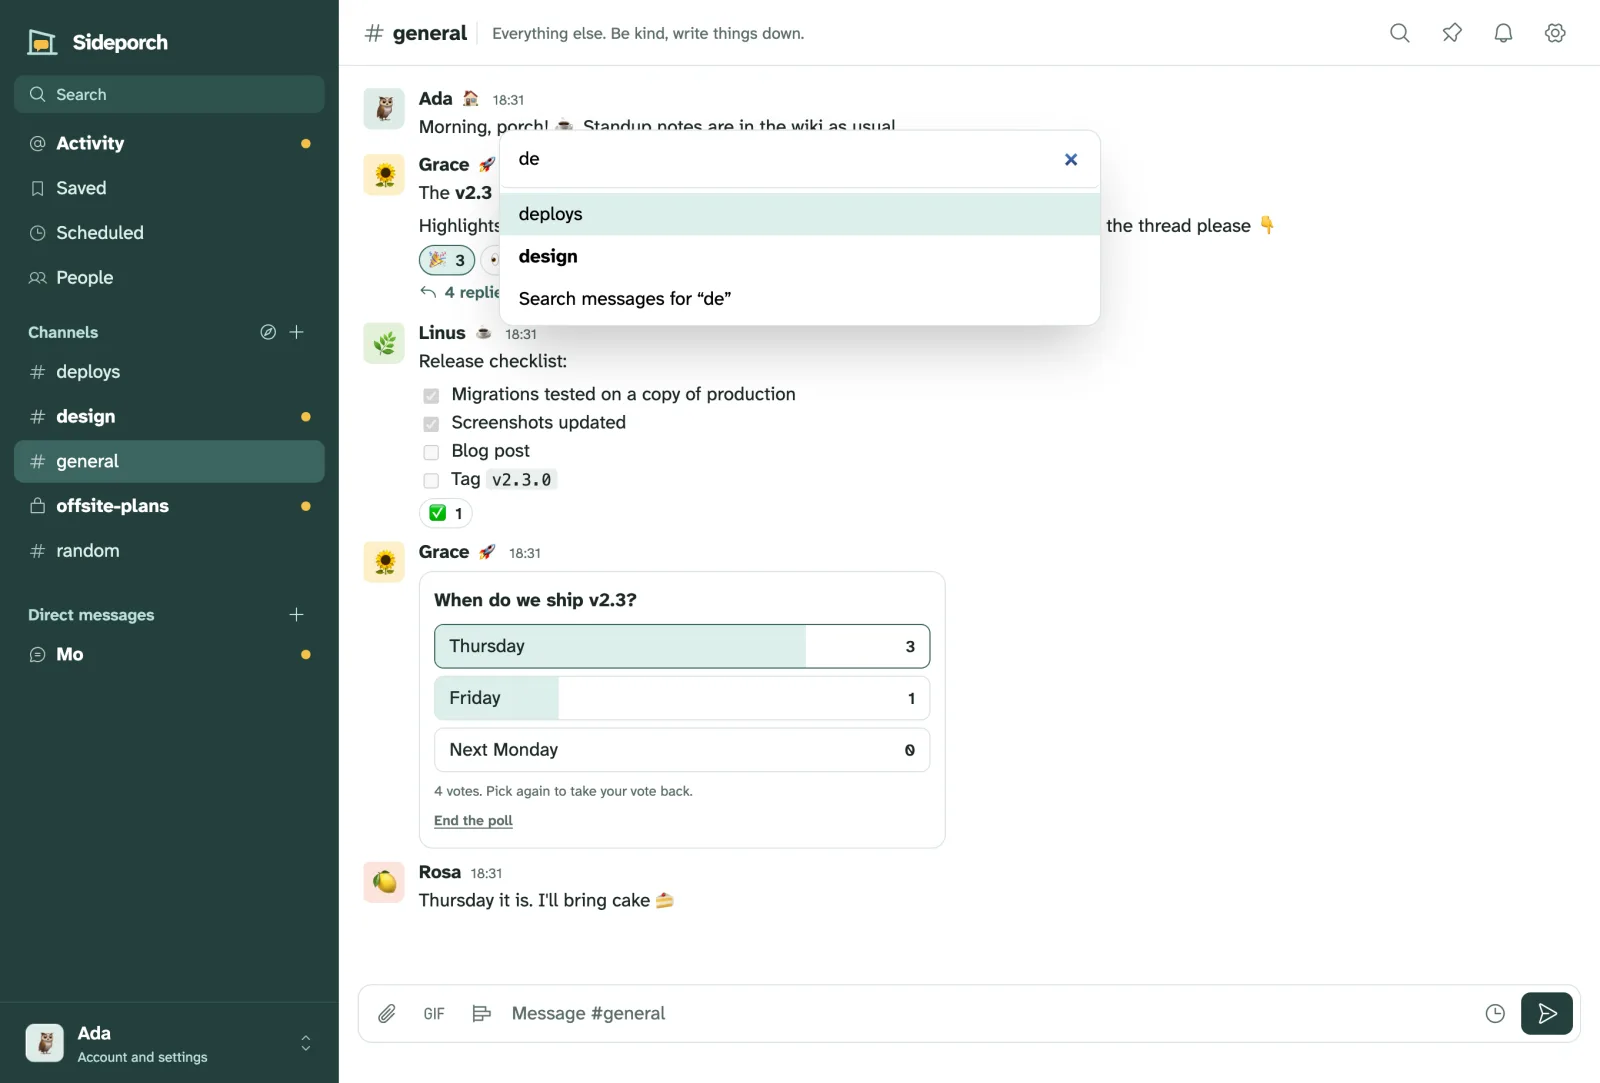
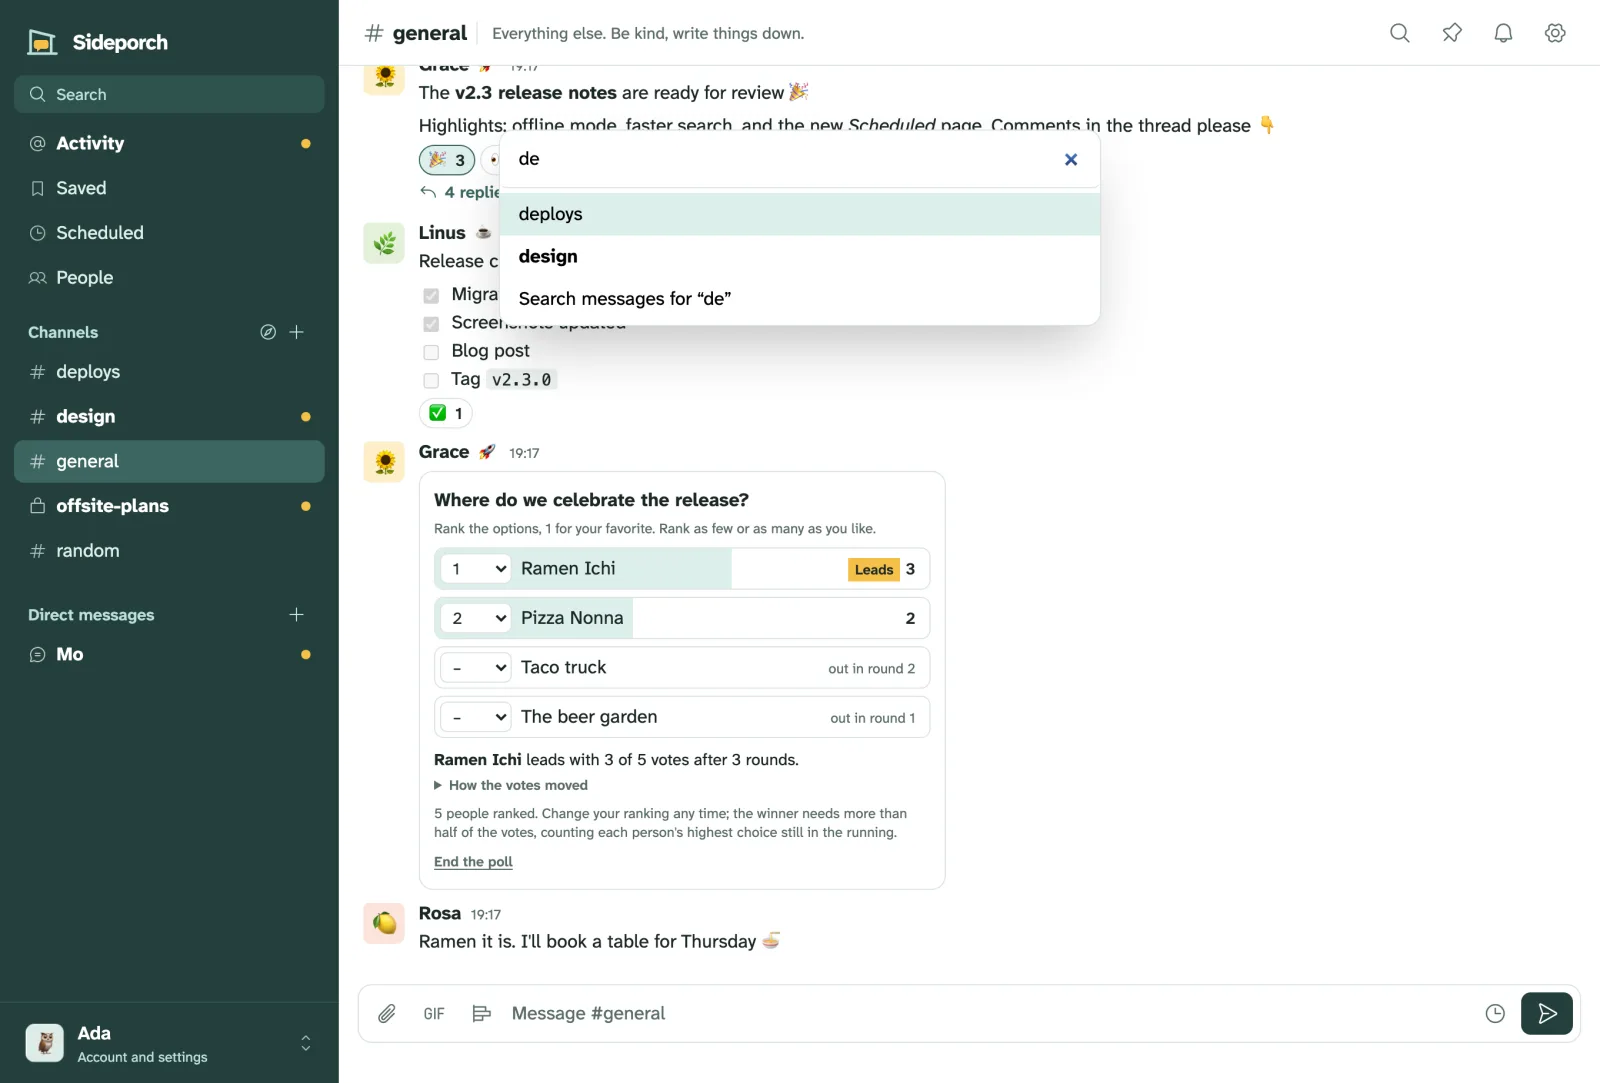
docs: screenshots of ranked polls, search and moderation
The screenshot script now seeds a ranked poll, a corrected search and a
community with a sign-up request and a reported message; the README and
the website show them.

diff --git a/website/index.html b/website/index.html
@@ -131,13 +131,21 @@
       <figure class="wide">
         <picture>
           <source media="(prefers-color-scheme: dark)" srcset="/img/channel-dark.webp">
-          <img src="/img/channel.webp" alt="A Sideporch channel with a thread open on the right: messages with reactions, a checklist and a poll." width="1600" height="1083" loading="lazy">
+          <img src="/img/channel.webp" alt="A Sideporch channel with a thread open on the right: messages with reactions, a checklist, and a ranked poll showing which restaurant leads after three rounds." width="1600" height="1083" loading="lazy">
         </picture>
-        <figcaption>A channel with a thread open. Everything works on phones too, and installs like an app.</figcaption>
+        <figcaption>A channel with a thread open, and a ranked poll finding where the team celebrates. Everything works on phones too, and installs like an app.</figcaption>
       </figure>
       <figure>
         <img src="/img/deploys.webp" alt="A deploys channel with alerts from a monitor, a Mermaid diagram and an approval button." width="1600" height="1224" loading="lazy">
         <figcaption>Alerts from your monitors next to the people who fix them.</figcaption>
+      </figure>
+      <figure>
+        <img src="/img/search.webp" alt="Search for “relase notes”, corrected to “release notes”, with the matching message highlighted and filter shortcuts." width="1600" height="1083" loading="lazy">
+        <figcaption>Search that fixes typos from your team's own words, with filters one click away.</figcaption>
+      </figure>
+      <figure>
+        <img src="/img/moderation.webp" alt="The moderation page: someone asking to join, and a reported spam message with buttons to delete it or dismiss the report." width="1600" height="1224" loading="lazy">
+        <figcaption>Moderation for public communities: sign-up requests, reports and time-outs.</figcaption>
       </figure>
       <figure>
         <img src="/img/automation.webp" alt="The automation editor with a Lua script that asks for deploy approvals." width="1600" height="1083" loading="lazy">

diff --git a/README.md b/README.md
@@ -16,7 +16,7 @@ with the things people miss from Slack, on a server you control.</p>
 
 <picture>
   <source media="(prefers-color-scheme: dark)" srcset="docs/screenshots/channel-dark.webp">
-  <img src="docs/screenshots/channel.webp" alt="A Sideporch channel with a thread open on the right: messages with reactions, a checklist and a poll.">
+  <img src="docs/screenshots/channel.webp" alt="A Sideporch channel with a thread open on the right: messages with reactions, a checklist, and a ranked poll showing which restaurant leads after three rounds.">
 </picture>
 
 > **Status:** early. It works end to end, but expect rough edges and breaking changes before 1.0.
@@ -78,6 +78,8 @@ Open <http://localhost:8080> (or <http://127.0.0.1:8080> for the Homebrew versio
 
 ![The quick switcher, opened with Cmd+K over a channel, filtering channels as you type.](docs/screenshots/switcher.webp)
 
+![Search for “relase notes”, corrected to “release notes”, with the matching message highlighted and filter shortcuts like From me, Files and Pinned.](docs/screenshots/search.webp)
+
 ### On your phone
 
 Sideporch works in any mobile browser, and installs as an app: its own icon and window, the number of unread conversations on the icon, and on Android a place in the share sheet, so links and text from other apps go straight into a conversation. When the connection drops, it says so instead of showing an error page.
@@ -120,6 +122,8 @@ Sideporch works for a team behind invite links, and just as well for a community
 - **Trust levels** keep newcomers from doing harm while they're new. People start at level 0 when they sign up on their own (or 1 when invited) and move up as they stay and take part: days since joining, days visited, messages sent. Admins tune the requirements, and can set someone's level and keep it there.
 - **Permissions** for uploading files, posting links, notifying everyone with `@channel`, starting direct messages, creating channels and polls, adding emoji, inviting people and moderating. Each asks for a trust level, or is left to admins and **roles** you create, such as "Moderators" or "Designers". To turn uploads off, leave them to admins.
 - **Moderation**: anyone can report a message; moderators delete it or dismiss the report, let people in who asked to join, and time people out, so they can read but not post. New members can only send a few messages a minute.
+
+![The moderation page: someone asking to join with a note, and a reported spam message with buttons to delete it or dismiss the report.](docs/screenshots/moderation.webp)
 
 ### Sign in safely
 
